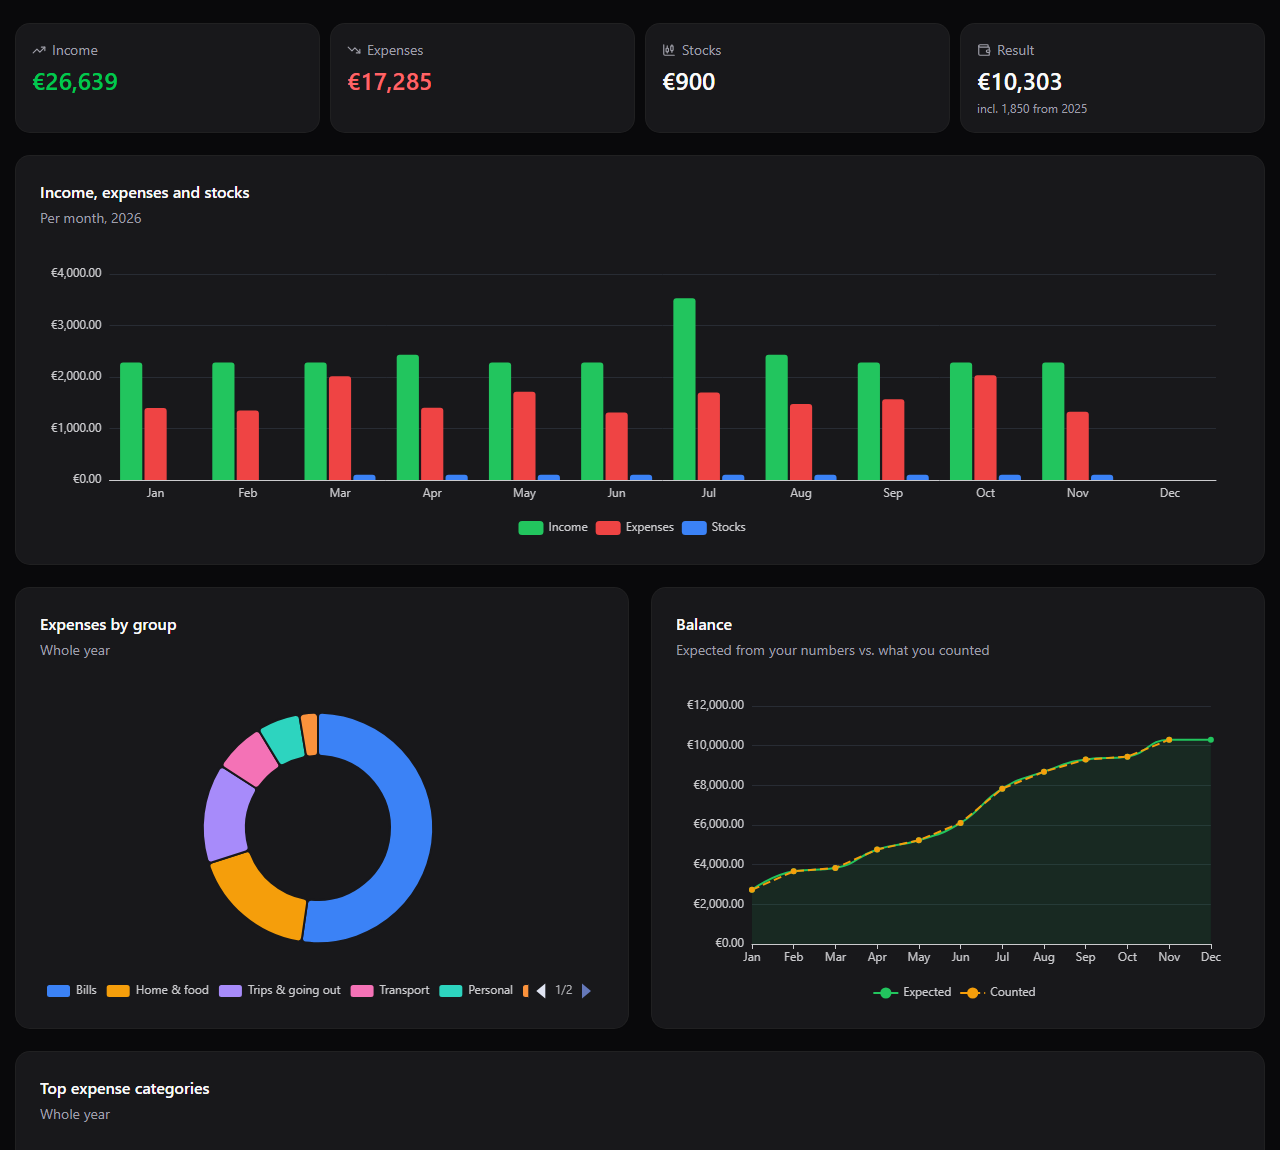
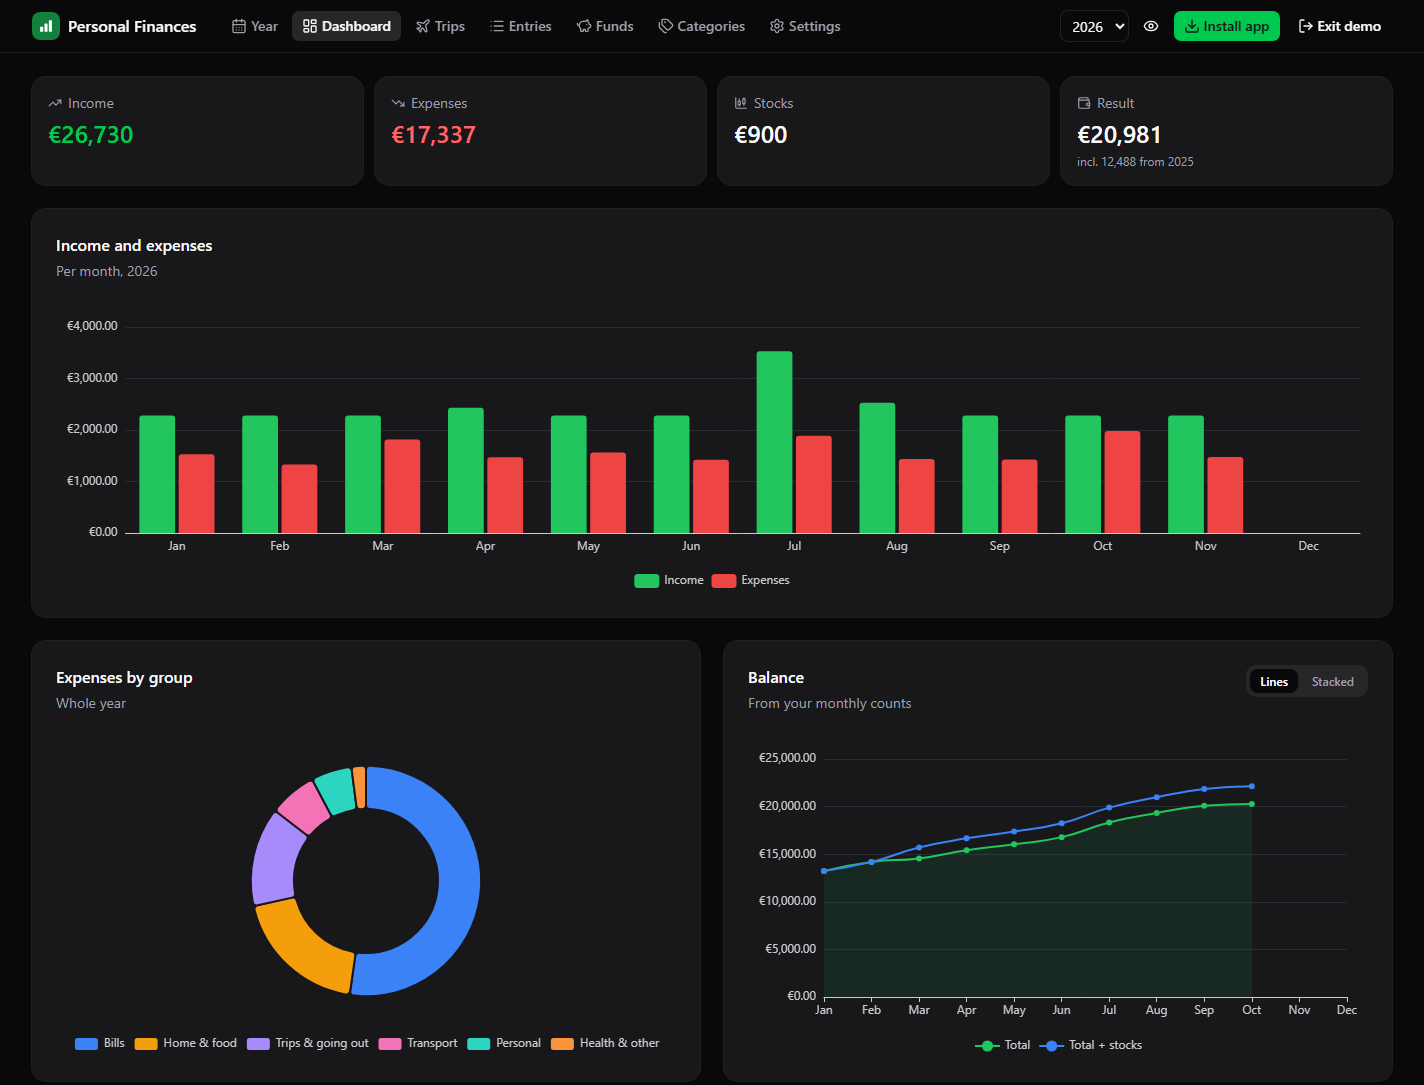
Updates readme and images

diff --git a/frontend/src/index.html b/frontend/src/index.html
@@ -7,11 +7,13 @@
     <meta name="viewport" content="width=device-width, initial-scale=1, viewport-fit=cover" />
     <meta name="description" content="Track your income and expenses." />
     <meta name="theme-color" content="#09090b" />
-    <link rel="icon" type="image/png" sizes="32x32" href="icons/favicon-32.png" />
-    <link rel="icon" type="image/svg+xml" href="icons/icon.svg" />
+    <!-- ?v=2 makes browsers drop the old cached Angular icon -->
+    <link rel="icon" href="favicon.ico?v=2" sizes="48x48" />
+    <link rel="icon" type="image/svg+xml" href="icons/icon.svg?v=2" />
+    <link rel="icon" type="image/png" sizes="32x32" href="icons/favicon-32.png?v=2" />
     <link rel="manifest" href="manifest.webmanifest" />
     <!-- iOS home-screen app -->
-    <link rel="apple-touch-icon" href="icons/apple-touch-icon.png" />
+    <link rel="apple-touch-icon" href="icons/apple-touch-icon.png?v=2" />
     <meta name="apple-mobile-web-app-capable" content="yes" />
     <meta name="mobile-web-app-capable" content="yes" />
     <meta name="apple-mobile-web-app-title" content="Finances" />

diff --git a/CLAUDE.md b/CLAUDE.md
@@ -49,7 +49,9 @@ frontend/   Angular 22 app (standalone components, signals, @if/@for)
   src/app/trips/          items (trips, purchases…) across all years; open year live from the store, other years via GET /api/items
   src/app/funds/          funds       src/app/categories/  categories, items, accounts, carry-over
   src/app/settings/       Google Sheet link + sync status
-  src/app/shared/         summary cards
+  src/app/shared/         summary cards, dialog-position (topOnPhone)
+  src/app/demo/           demo mode: sample data, in-memory API, interceptor
+  src/app/app.ts          shell: header (single line on lg+, ☰ side menu below), year switcher, privacy toggle, demo banner
   libs/ui/                spartan/ui components (generated, editable)
 backend/    Hono app on the Cloudflare Workers runtime (NOT Node)
   src/routes/years.ts     years, categories, items, entries, counts, untraced
@@ -80,7 +82,17 @@ private/                  git-ignored — the owner's real workbook lives here. 
 - **The app is zoneless: form fields must be signals.** Writing a plain field (e.g. inside an `effect()`) does not re-render. Seed form fields from store data with `effect(() => this.field.set(...))` and bind `[(ngModel)]="field"` to the signal. This caused the month not being preselected and the carry-over showing 0.
 - **`hlm-native-select` works with string values only.** Use `[value]="'' + x"` on options (not `[ngValue]`, which it ignores) and convert back with `(ngModelChange)="x.set(+$event)"`.
 - **Privacy mode** (eye button, `core/privacy.service.ts`) adds `.privacy` to `<html>`; `styles.css` blurs `.tabular-nums`, `td.num`, `[echarts]`, `.sensitive` and unfocused number inputs. **Every new amount shown in the UI must carry `tabular-nums` or `sensitive`** or it will leak in privacy mode.
-- **Responsive:** the year grid shows at `lg:` and up; phones get a month-by-month list.
+- **Layout & responsive:**
+  - Header and `<main>` use `mx-auto w-full max-w-[1920px] px-4 lg:px-8`: full width, capped for ultra-wide screens. Don't reintroduce a narrow centred column.
+  - `lg:` and up: one-line header with the tabs. Below `lg`: compact header with a ☰ button opening a right-hand side menu (closes on navigation, backdrop click and Esc). Nav links are defined once in `App.links`.
+  - The year view is a grid at `lg:` and up and a month-by-month card list below. Both use the same `sections` (group header rows with per-month totals, collapsible). Collapsed groups are remembered in `localStorage` (`pf-collapsed-groups`).
+- **Dialogs with text inputs** bind `[positionStrategy]="topOnPhone(injector, openSignal)()"` (`shared/dialog-position.ts`) so they sit at the top on phones, above the keyboard. A strategy can't be reused after its dialog closes; the helper makes a fresh one on each open.
+- **Add form** (`year/entry-editor.ts`):
+  - Field order: month → amount → category → item → note. Month comes first so the phone keyboard doesn't open on load.
+  - The add dialog always starts on the current month. On phones it auto-opens once per launch, for the current year only.
+  - The amount field is a text input sanitised to digits, one decimal point (comma → point), 2 decimals and an optional leading minus.
+  - An ongoing trip (an item whose month matches) is preselected.
+- **Dashboard:** Balance has a Lines/Stacked toggle (stacked = each account + stocks value per month). Top expense categories shows the top 12, with "Show all"; the chart height grows with the number of rows.
 
 ## Architecture rules
 
@@ -109,3 +121,4 @@ private/                  git-ignored — the owner's real workbook lives here. 
 - In production, the service account is the Cloudflare secret `FIREBASE_SERVICE_ACCOUNT` (`npm --prefix backend run secret:push`).
 - Firebase project: `personal-finances-1cbca`, `(default)` database. The Firebase web config in `environment*.ts` is public by design.
 - **Local dev uses the production Firestore database and the owner's real sheet mirror.** Test with temporary data and clean it up. README screenshots must use sample data, never real data.
+- **README screenshots** (`docs/screenshots/`: year, dashboard, mobile, trips) are taken from the demo: serve the production build, open `/?demo` in headless Chrome, remove the "Demo mode" banner, then capture desktop (~1440px wide) and phone (~520px wide) shots.

diff --git a/README.md b/README.md
@@ -17,25 +17,30 @@ Categories × months, monthly account counts, trips and purchases, standalone fu
 </p>
 
 <p align="center">
-  <img src="docs/screenshots/dashboard.png" alt="Dashboard with monthly income/expenses/stocks, expenses by group, expected vs counted balance" width="560" />
+  <img src="docs/screenshots/dashboard.png" alt="Dashboard: income vs expenses per month, expenses by group, balance from monthly counts" width="560" />
   &nbsp;
-  <img src="docs/screenshots/mobile.png" alt="Phone view: one month at a time" width="190" />
+  <img src="docs/screenshots/mobile.png" alt="Phone view: one month at a time with collapsible groups" width="190" />
 </p>
 
-<p align="center"><sub>Screenshots use sample data.</sub></p>
+<p align="center">
+  <img src="docs/screenshots/trips.png" alt="Trips across all years with totals" width="560" />
+</p>
+
+<p align="center"><sub>Screenshots are taken from the built-in demo (sample data).</sub></p>
 
 ## Features
 
-- 🗓 **Year view:** categories (in groups) × months with totals, before/after stocks and the yearly result — like a budget sheet. Tap any cell to see, add, edit or move its amounts. Future months are allowed. On phones it shows one month at a time.
+- 🗓 **Year view:** categories × months with totals, before/after stocks and the yearly result — like a budget sheet. Groups (Bills, Home & food…) show their own monthly totals and collapse to a single line. Tap any cell to see, add, edit or move its amounts. Future months are allowed. On phones it shows one month at a time.
 - 🔁 **Years that carry over:** each year's result becomes the next year's opening balance. A new year starts clean with the categories you choose to keep.
 - 🏷 **Dynamic categories:** income, expense or stocks; grouped and reorderable. Categories with history are archived, never lost. Any category can hold named **items** (e.g. trips, big purchases).
 - ✈ **Trips:** every trip (or other item) across all years with its total and expenses; add expenses to an ongoing trip in one tap.
 - ⚖ **Monthly count:** enter what each account really holds; the app suggests the "untraced" correction for missing money.
 - 🐷 **Funds:** standalone pots (a house budget, a gift card) that live outside your monthly cash flow.
-- 📊 **Dashboard & entries:** charts (monthly totals, spending by group, expected vs counted balance, top categories) and a searchable, sortable list of every amount.
+- 📊 **Dashboard & entries:** charts (income vs expenses, spending by group, balance from your counts as lines or stacked by account, all expense categories) and a searchable, sortable list of every amount.
+- 🙈 **Privacy mode:** one tap blurs every amount, so you can show the app to someone.
 - 📄 **Google Sheets mirror (optional, per user):** after every change the app rewrites a sheet with one tab per year — same layout, real formulas (`=42.2+16.5`) — plus a Funds tab.
 - 📥 **Spreadsheet import:** a script imports an existing yearly budget workbook and checks every month against the sheet's own totals.
-- 📱 **Installable app (PWA):** one-tap install on Android, Chrome and Edge, with Add to Home Screen instructions on iOS. Installed apps show an update prompt after each deploy.
+- 📱 **Mobile-first:** installable app (PWA) with one-tap install on Android, Chrome and Edge and Add to Home Screen instructions on iOS; a ☰ menu on phones; quick-add opens on launch. Installed apps show an update prompt after each deploy.
 - 🔐 **Private by design:** Google sign-in. Every request is verified on the server, and each user only ever sees their own data.
 - 🧪 **Demo mode:** "Try the demo" on the sign-in screen (or [`/?demo`](https://personal-finances.net/?demo)) opens the full app with sample data. Everything runs in the browser and nothing is saved.
 - 💸 **€0 to run:** Cloudflare free plan plus Firebase Spark plan. No credit card needed.
